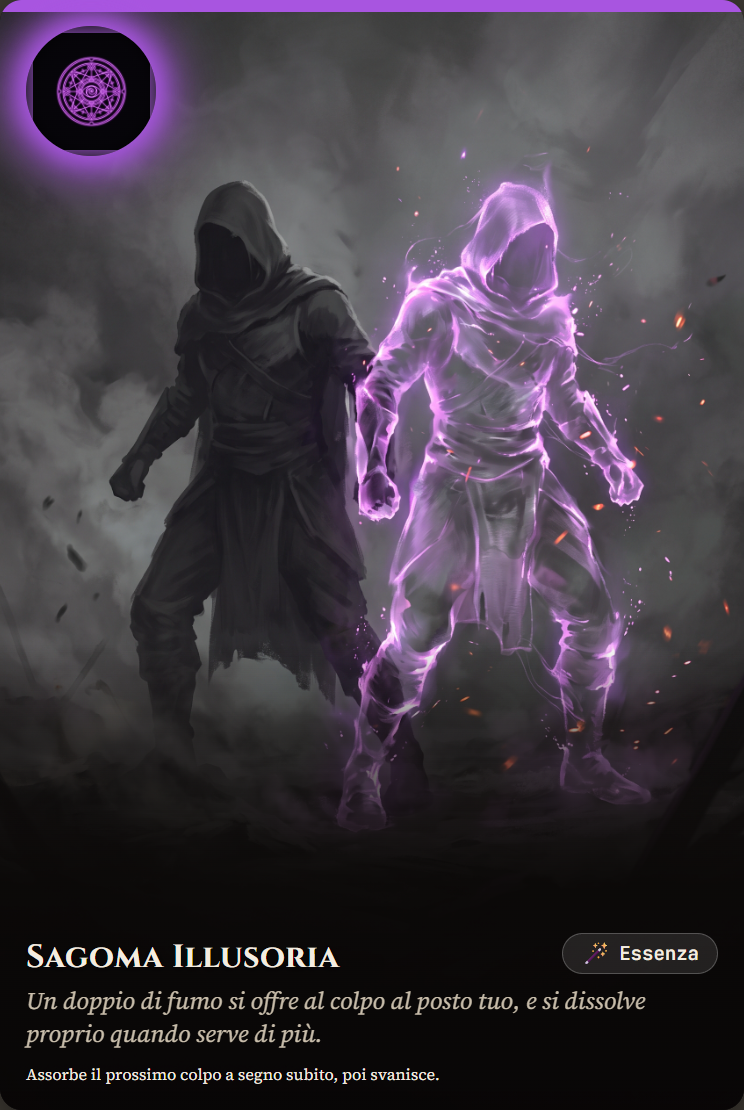
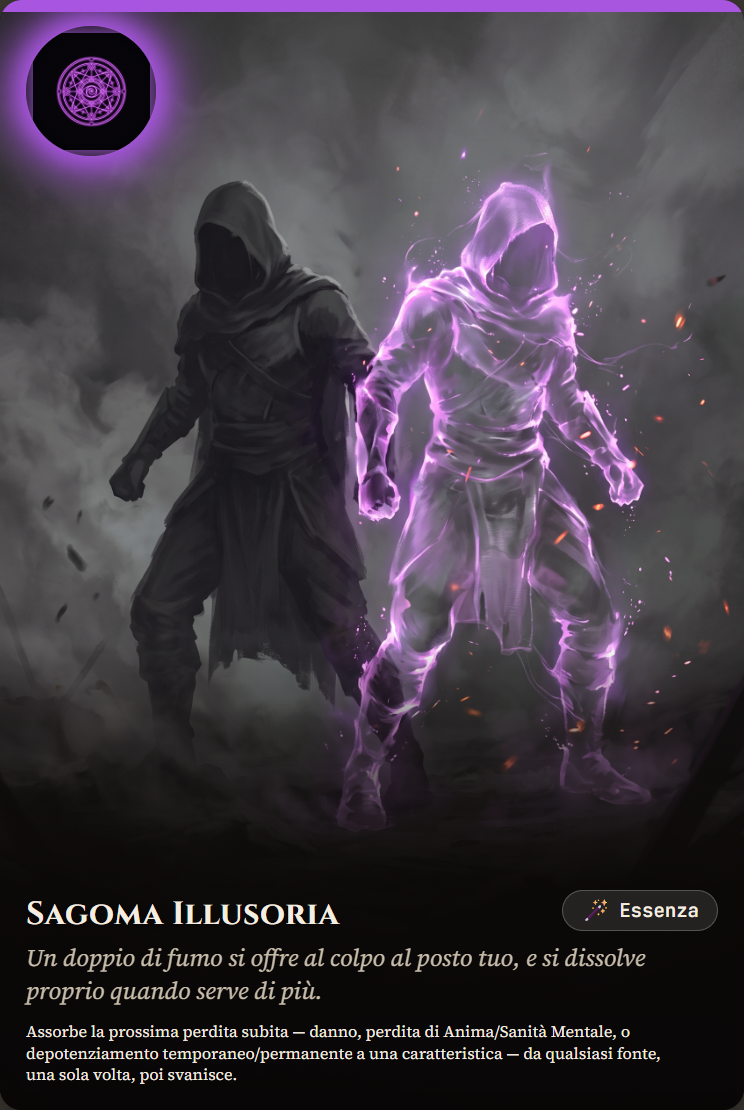
Corregge Sagoma Illusoria, Cerchio/Vuoto, Piano Ordine; chiarisce Convulsione Planare
Sagoma Illusoria: il check contro sagomaReady esisteva solo dentro
applyDamage, quindi proteggeva PV/Anima/Sanità ma NON i depotenziamenti
temporanei/permanenti a Forza/Intelletto/Destrezza (applyTempDebuff/
applyPermDebuff mutano le stat direttamente, senza passare da
applyDamage). Aggiunto lo stesso check anche lì, così Sagoma assorbe
davvero "qualsiasi perdita da qualsiasi fonte" una sola volta, come da
richiesta. Testo della carta aggiornato di conseguenza e illustrazione
ricomposta (arte originale in cards_raw invariata).

Cerchio di Protezione: il blocco funzionava già correttamente (il PV
non veniva scalato), ma applyVuotoLoss loggava comunque, sempre e
incondizionatamente, "sceglie di perdere 1 PV" subito accanto al
messaggio di blocco — dando l'impressione che il danno fosse passato
lo stesso nonostante la parata. Rimosso quel log ridondante per il
caso PV: ora parla solo applyDamage, che already distingue
correttamente blocco vs danno effettivo.

Piano Ordine: l'effetto si limitava a un messaggio di log che
rimandava a "usa Gestisci", ma Gestisci non aveva alcuna funzione del
genere — non faceva letteralmente nulla. Aggiunto un flag per
personaggio (ordineResetReady) concesso all'ingresso, e nel pannello
Gestisci un pulsante per caratteristica che riporta quella statistica
al valore di partenza di 1° livello, azzerando depotenziamenti
temporanei/permanenti accumulati (una sola volta a testa).

Convulsione Planare: verificato dal vivo che il mescolamento del
[…]

Changed region(s): [[0.0309, 0.7964, 0.9892, 0.9802]]

diff --git a/index.html b/index.html
@@ -545,7 +545,7 @@ const SPELLS = {
     S("sp_teletrasporto","Teletrasporto Planare","Teletrasporta il gruppo nel piano di un altro giocatore.",{teleportReunionSpell:true}),
     S("sp_drenaggio","Drenaggio d'Essenza","Ogni entità sconfitta in questo piano frutta 1 risorsa planare extra, fino al prossimo salto.",{drenaggioSpell:true}),
     S("sp_estrazione","Estrazione Arcana","Ruba temporaneamente 1 punto di una caratteristica a un'entità in Contesa.",{manualUse:true}),
-    S("sp_sagoma","Sagoma Illusoria","Assorbe il prossimo colpo a segno subito, poi svanisce.",{sagomaSpell:true}),
+    S("sp_sagoma","Sagoma Illusoria","Assorbe la prossima perdita subita — danno, perdita di Anima/Sanità Mentale, o depotenziamento temporaneo/permanente a una caratteristica — da qualsiasi fonte, una sola volta, poi svanisce.",{sagomaSpell:true}),
     S("sp_charme","Charme","Incanta un'entità ostile convincendola a desistere (non su non-morti/demoni).",{charmSpell:true}),
     S("sp_trasmutazione","Trasmutazione Minore","Trasforma oggetti in altrettante risorse planari equivalenti.",{trasmutazioneSpell:true}),
     S("sp_veloint","Velo Interplanare","Evita del tutto l'Incontro del turno, anche in Demoniaco/Piano Negativo.",{stealthLikeSpell:true,bypassDemonRestriction:true}),
@@ -698,13 +698,14 @@ function makeChar(name, clsKey, bonus){
     dardoReady:false, // Mago: prossima Contesa infligge 2 danni sicuri
     monkShieldReady:false, // Monaco: annulla il prossimo danno subito
     tempraReady:false, // Tempra: para il prossimo danno subito, qualsiasi tipo
-    sagomaReady:false, // Sagoma Illusoria: assorbe il prossimo colpo a segno subito, poi svanisce
+    sagomaReady:false, // Sagoma Illusoria: assorbe la prossima perdita subita (danno, Anima/Sanità, depotenziamento), poi svanisce
     formaSelvaticaSwap:null, // Druido: [statA,statB] scambiate fino al prossimo salto
     mirrorBoost:null, // Labirinto degli Specchi: {stat:delta} da revertire dopo il prossimo piano
     pendingPersonalReunion:false, // Anello del Legame: al prossimo salto si riunisce col resto del gruppo
     egidaReady:false, // Egida: para il prossimo danno Fisico, fino al prossimo salto
     sigilloActive:false, // Sigillo: non può agire ostilmente per Corruzione, finché resta nel piano
     dmgBonusPlane:0, // Benedizione: +2 danno per tutta la permanenza nel piano
+    ordineResetReady:false, // Ordine: può riportare una propria caratteristica al valore di partenza di 1° livello, finché resta nel piano
     wildcardResistance:false, // Cimelio del Viandante/Vaticinio: para il primo danno d'ingresso del prossimo piano, qualunque famiglia
     contesaBonusPlane:0, // Vaticinio: +1 in qualsiasi Contesa per tutta la permanenza nel piano indovinato
     tempBonus:{}, // {stat:delta} da ricompensa Etereo non-boss: dura fino al prossimo Recupero
@@ -889,6 +890,11 @@ function handlePvThreshold(c){
 }
 function applyTempDebuff(c, stat){
   if(stat==='pv'){ applyDamage(c,'pv',1,{ignoreResistance:true}); return; }
+  if(c.sagomaReady){
+    c.sagomaReady=false;
+    logMsg(`👤 ${c.name} assorbe il depotenziamento con Sagoma Illusoria, che poi svanisce.`);
+    return;
+  }
   if(c.tempDebuff[stat]){
     c.permDebuffN[stat]++;
     c.stats[stat]=Math.max(1,c.stats[stat]-1);
@@ -901,6 +907,11 @@ function applyTempDebuff(c, stat){
 }
 function applyPermDebuff(c, stat){
   if(stat==='pv'){ applyDamage(c,'pv',1,{ignoreResistance:true}); return; } // niente "permDebuffN.pv": il PV non ha quel contatore, è danno diretto
+  if(c.sagomaReady){
+    c.sagomaReady=false;
+    logMsg(`👤 ${c.name} assorbe il depotenziamento con Sagoma Illusoria, che poi svanisce.`);
+    return;
+  }
   c.permDebuffN[stat]++;
   c.stats[stat]=Math.max(1,c.stats[stat]-1);
   logMsg(`⬇⬇ ${c.name} subisce un depotenziamento PERMANENTE a ${STAT_LABEL[stat]}.`,'bad');
@@ -919,6 +930,13 @@ function applyTempBonus(c, stat, n){
     c.tempBonus[stat]=(c.tempBonus[stat]||0)+(c.stats[stat]-before);
     logMsg(`🎁 ${c.name} ottiene +${n} temporaneo a ${STAT_LABEL[stat]} (dura fino al prossimo Recupero).`);
   }
+}
+function applyOrdineReset(c, stat){
+  const before = c.stats[stat];
+  c.stats[stat] = c.start[stat];
+  if(stat!=='pv'){ c.tempDebuff[stat]=false; c.permDebuffN[stat]=0; }
+  c.ordineResetReady = false;
+  logMsg(`⚖ ${c.name} riporta ${STAT_LABEL[stat]} al valore di partenza di 1° livello (${before} → ${c.stats[stat]}), cancellando ogni effetto accumulato.`,'good');
 }
 function healStat(c, stat, n){
   const cap = stat==='pv'||stat==='san'||stat==='anima' ? c.start[stat] : 6;
@@ -1147,7 +1165,11 @@ function renderVuotoChoice(){
   </div>`;
 }
 function applyVuotoLoss(c, what){
-  if(what==='pv'){ applyDamage(c,'pv',1,{ignoreResistance:true}); logMsg(`🕳 ${c.name} sceglie di perdere 1 PV.`); }
+  // per 'pv' non logghiamo noi l'esito: applyDamage racconta già da sé cosa succede
+  // davvero (danno subito, oppure parato da Cerchio/Egida/Tempra/Sagoma/Resistenza) —
+  // un messaggio fisso "sceglie di perdere 1 PV" qui sopra sarebbe fuorviante quando
+  // il colpo viene parato subito dopo.
+  if(what==='pv'){ applyDamage(c,'pv',1,{ignoreResistance:true}); }
   else if(what==='item' && c.inventory.length){ const idx=Math.floor(Math.random()*c.inventory.length); const lost=c.inventory.splice(idx,1)[0]; logMsg(`🕳 ${c.name} sceglie di perdere ${OGGETTI_BY_ID[lost]?.name}.`); }
   else if(what==='spell' && c.spells.length){ const idx=Math.floor(Math.random()*c.spells.length); const lost=c.spells.splice(idx,1)[0]; logMsg(`🕳 ${c.name} sceglie di dimenticare ${SPELLS_BY_ID[lost]?.name}.`); }
   else if(what==='ability'){
@@ -1614,7 +1636,10 @@ const PLANE_EFFECTS = {
       logMsg(`💭 ${names.join(', ')} ${plural?'restano':'resta'} intrappolat${plural?'i':'o'} nell'illusione: non partecipa${plural?'no':''} all'Incontro di questo turno, sia esso uno scontro o altro.`,'warn');
     }
   },
-  ordine:(p,acts,ctx)=>{ logMsg('⚖ Chi vuole può riportare una propria caratteristica al valore di partenza di 1° livello (usa Gestisci).'); },
+  ordine:(p,acts,ctx)=>{
+    acts.forEach(c=>{ c.ordineResetReady = true; });
+    logMsg('⚖ Chi vuole può riportare una propria caratteristica al valore di partenza di 1° livello, una sola volta (usa Gestisci).');
+  },
   legge:(p,acts,ctx)=>{ logMsg('⚖ Ogni oggetto preso qui richiede un pegno in cambio (baratto forzato, applica manualmente).'); },
   sacro:(p,acts,ctx)=>{ annihilateUndead(acts,'Sacro'); logMsg('✨ Piano protetto: non-morti/demoni subiscono danno passivo; qui il Recupero cura anche 1 San in più.'); },
   stasi:(p,acts,ctx)=>{ logMsg('⏳ Qui nulla può cambiare: cure, potenziamenti e danni non hanno effetto. Mazzo Piani non manipolabile.'); },
@@ -3063,6 +3088,9 @@ function openCharManageModal(id){
     ${c.companion?`<p class="hint">🗿 Compagno: <strong>${escapeHtml(c.companion.name)}</strong> (valore ${c.companion.value}) — aiuta in qualsiasi check se il suo valore è più alto, e protegge da un colpo per volta negli scontri finché non si distrugge.</p>`:''}
     ${c.protectedItemId?`<p class="hint">⏳ Statua di Stasi: <strong>${escapeHtml(OGGETTI_BY_ID[c.protectedItemId]?.name||c.protectedItemId)}</strong> è protetto — non può essere perso, rubato o distrutto da nessun effetto.</p>`:''}
     ${inRecuperoPlane?`<p class="hint">🛌 Piano di Recupero: il riposo è automatico all'ingresso.</p>`:''}
+    ${c.ordineResetReady?`<div class="panel" style="margin:.5rem 0;"><p class="hint">⚖ Ordine: scegli una caratteristica da riportare al valore di partenza di 1° livello, cancellando ogni effetto accumulato (nel bene e nel male) — una sola volta.</p>
+      <div class="row">${STATS.map(s=>`<button class="small" data-ordinereset="${s}">${STAT_LABEL[s]} (ora ${c.stats[s]} → ${c.start[s]})</button>`).join('')}</div>
+    </div>`:''}
     <h4 class="mt1">Azioni rapide</h4>
     <div class="row mb1">
       ${cls.special ? `<button class="small" id="mgrSpecial" ${!c.charges.special?'disabled':''}>✳ Usa abilità di classe${!c.charges.special?' (scarica)':''}</button>` : ''}
@@ -3098,7 +3126,7 @@ function openCharManageModal(id){
         <div class="info">
           <div class="title">${escapeHtml(sp.name)} <span class="badge">${escapeHtml(school||'')}</span>${sp.cost?`<span class="badge">costo ${sp.cost}</span>`:''}</div>
           <p class="desc">${escapeHtml(sp.text||'')}</p>
-          <div class="actions"><button class="small" data-usespell="${i}">Usa</button></div>
+          <div class="actions"><button class="small" data-usespell="${i}" ${sp.cost && c.resources<sp.cost?'disabled title="Risorse planari insufficienti"':''}>Usa</button>${sp.cost && c.resources<sp.cost?` <span class="hint">servono ${sp.cost} risorse planari, ${c.name} ne ha ${c.resources}</span>`:''}</div>
         </div>
       </div>`;
     }).join('')||'<span class="hint">Nessuno</span>'}</div>
@@ -3111,6 +3139,7 @@ function openCharManageModal(id){
   if(specialBtn) specialBtn.onclick=()=>{ useClassSpecial(c); render(); openCharManageModal(id); };
   const rerollBtn=document.getElementById('mgrReroll');
   if(rerollBtn) rerollBtn.onclick=()=>{ c.rerolls--; logMsg(`🔁 ${c.name} usa un reroll.`); render(); openCharManageModal(id); };
+  document.querySelectorAll('[data-ordinereset]').forEach(b=>b.onclick=()=>{ applyOrdineReset(c, b.dataset.ordinereset); render(); openCharManageModal(id); });
   document.querySelectorAll('[data-useitem]').forEach(b=>b.onclick=()=>{ const openedOwnModal=useItem(c, +b.dataset.useitem); render(); if(!openedOwnModal) openCharManageModal(id); });
   document.querySelectorAll('[data-unequip]').forEach(b=>b.onclick=()=>{ unequipSlot(c, b.dataset.unequip); render(); openCharManageModal(id); });
   document.querySelectorAll('[data-unequipring]').forEach(b=>b.onclick=()=>{ unequipRing(c, +b.dataset.unequipring); render(); openCharManageModal(id); });
@@ -3424,7 +3453,7 @@ function useSpell(c, idx){
   }
   if(sp.sagomaSpell){
     c.sagomaReady = true;
-    logMsg(`👤 ${c.name} lancia ${sp.name}: assorbirà il prossimo colpo a segno subito, poi svanisce.`,'good');
+    logMsg(`👤 ${c.name} lancia ${sp.name}: assorbirà la prossima perdita subita, da qualsiasi fonte, poi svanisce.`,'good');
     c.spells.splice(idx,1);
     return;
   }
